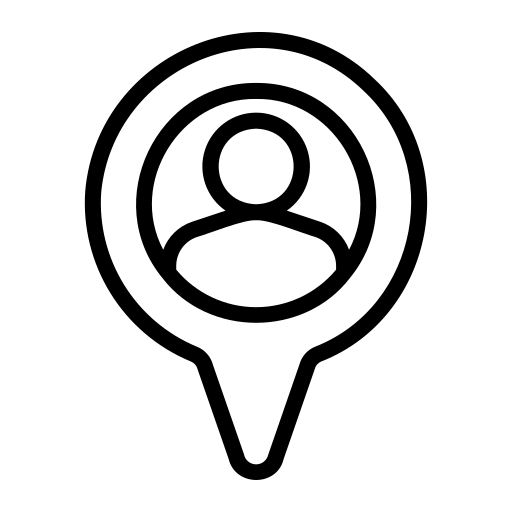
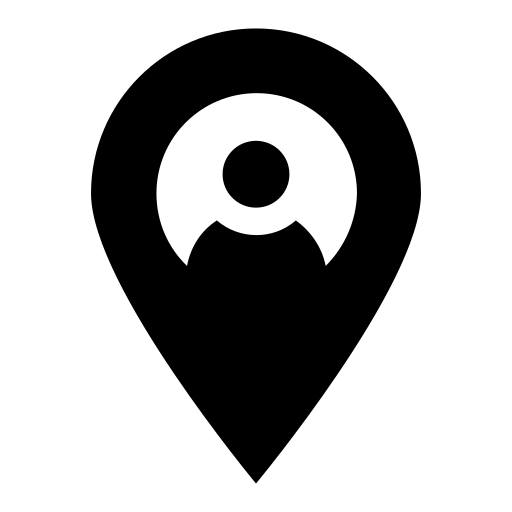
Feat : 마커 이미지 임시 완료

Changed region(s): [[0.1562, 0.0312, 0.8438, 0.9375]]

diff --git a/snubus/src/components/Map.js b/snubus/src/components/Map.js
@@ -59,7 +59,7 @@ function Map({ position, stations }) {
           mapInfo.centerY || curLat,
           mapInfo.centerX || curLlon
         ), //지도의 중심좌표. -> 마운트 되기 전 map 확대 및 이동 위치가 있으면 그걸 중심좌표로 , 없으면 현재 위치를 중심좌표로
-        level: mapInfo.level || 3, //지도의 레벨(확대, 축소 정도)
+        level: mapInfo.level || 1, //지도의 레벨(확대, 축소 정도)
       };
       const map = new window.kakao.maps.Map(container, options); //지도 생성 및 객체 리턴
 
@@ -93,7 +93,7 @@ function Map({ position, stations }) {
       gridSize: 35,
     });
 
-    // 마커 이미지 정보
+    // 현재 위치 마커 이미지 정보
     const CurImageSrc = process.env.PUBLIC_URL + `assets/currentMarker.png`, // 마커이미지의 주소
       CurImageSize = new window.kakao.maps.Size(40),
       CurImageOption = { offset: new window.kakao.maps.Point(20, 20) }; // 마커이미지의 크기
@@ -110,7 +110,7 @@ function Map({ position, stations }) {
       image: CurmarkerImage,
     });
 
-    // 마커 이미지 정보
+    // 버스 마커 이미지 정보
     const BusImageSrc = process.env.PUBLIC_URL + `assets/FeederBus.png`, // 마커이미지의 주소
       BusImageSize = new window.kakao.maps.Size(30),
       BusImageOption = { offset: new window.kakao.maps.Point(0, 0) }; // 마커이미지의 크기
@@ -132,6 +132,17 @@ function Map({ position, stations }) {
         })
     );
 
+    // 버스 마커 이미지 정보
+    const stationImageSrc = process.env.PUBLIC_URL + `assets/stationMarker.png`, // 마커이미지의 주소
+      stationImageSize = new window.kakao.maps.Size(30),
+      stationImageOption = { offset: new window.kakao.maps.Point(0, 0) }; // 마커이미지의 크기
+
+    // 마커의 이미지정보를 가지고 있는 마커이미지를 생성
+    const stationMarkerImage = new window.kakao.maps.MarkerImage(
+      stationImageSrc,
+      stationImageSize,
+      stationImageOption
+    );
     // 해당 노선 모든 정류장 위치 좌표 배열마다 마커 만들기
     const stationMarkers = stations.map(
       (stationPos) =>
@@ -140,6 +151,7 @@ function Map({ position, stations }) {
             stationPos.position[0],
             stationPos.position[1]
           ),
+          image: stationMarkerImage,
         })
     );
 

diff --git a/snubus/src/routes/components/Footer.js b/snubus/src/routes/components/Footer.js
@@ -8,8 +8,8 @@ function Footers() {
       <FooterPWrap>
         <FooterP>ⓒSONO. All rights reserved.</FooterP>
         <FooterP>
-          저작자 :{" "}
-          <Link to="https://www.flaticon.com/kr/free-icons/-">아이콘</Link>
+          저작자 :
+          <Link to="https://www.flaticon.com/kr/free-icons/-">마커</Link>
         </FooterP>
       </FooterPWrap>
     </Footer>
